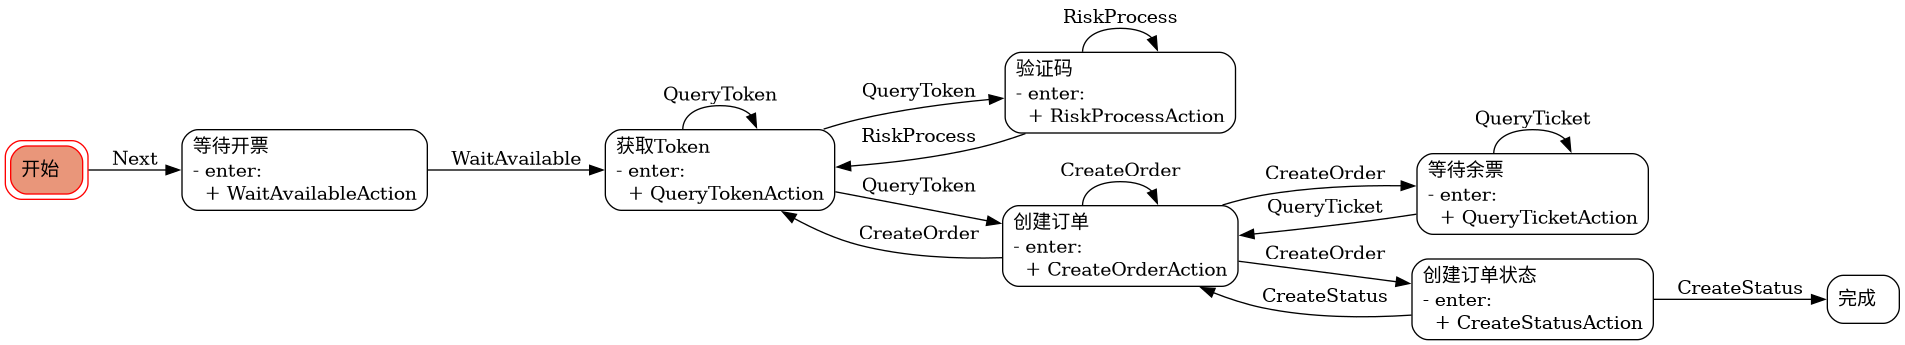
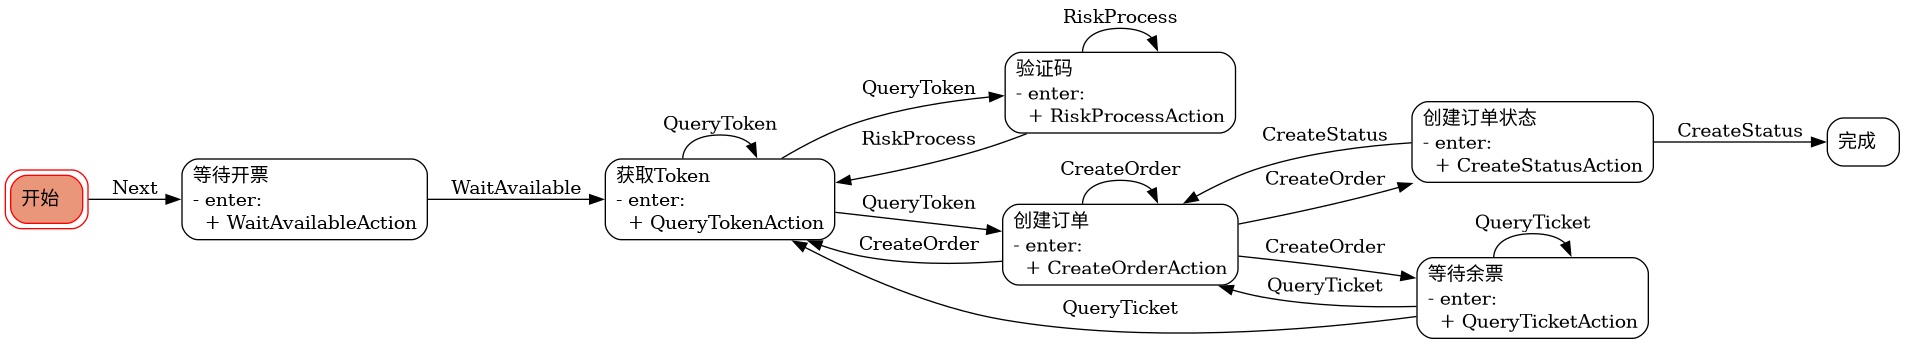
feat:每7.5分钟自动刷新Token&等待余票->获取Token

diff --git a/util/Task/__init__.py b/util/Task/__init__.py
@@ -108,6 +108,12 @@ class Task:
         self.machine.add_transition(
             trigger="QueryTicket",
             source="等待余票",
+            dest="获取Token",
+            conditions=lambda: self.data.TimestampCheck(timestamp=self.refreshTime, duration=self.refreshInterval),
+        )
+        self.machine.add_transition(
+            trigger="QueryTicket",
+            source="等待余票",
             dest="创建订单",
             conditions=lambda: self.queryTicketCode is True,
         )
@@ -129,7 +135,7 @@ class Task:
             trigger="CreateOrder",
             source="创建订单",
             dest="获取Token",
-            conditions=lambda: self.createOrderCode in range(100050, 100060),
+            conditions=lambda: self.createOrderCode in range(100050, 100060) or self.data.TimestampCheck(timestamp=self.refreshTime, duration=self.refreshInterval),
         )
         self.machine.add_transition(
             trigger="CreateOrder",
@@ -160,8 +166,14 @@ class Task:
 
         # 正常Sleep
         self.normalSleep = 0.35
+        # 减速Sleep
+        self.slowSleep = 1
         # ERR3 Sleep
         self.errSleep = 4.96
+        # 刷新Token间隔
+        self.refreshInterval = 7.5
+        # 上次刷新Token时间
+        self.refreshTime = 0
         # 是否已缓存getV2
         self.queryCache = False
 
@@ -212,6 +224,10 @@ class Task:
                     countdown -= 5
 
                 elif 60 > countdown > 1:
+                    if countdown == 10:
+                        logger.info("【等待开票】即将开票! 正在提前获取Token...")
+                        self.QueryTokenAction()
+
                     logger.info(f"【等待开票】即将开票! 需要等待 {countdown-1} 秒")
                     sleep(1)
                     countdown -= 1
@@ -231,12 +247,13 @@ class Task:
         """
         获取Token
         """
-        logger.info("【获取Token】正在尝试获取Token...")
+        logger.info("【获取Token】正在刷新Token...")
         self.queryTokenCode, msg = self.api.QueryToken()
         match self.queryTokenCode:
             # 成功
             case 0:
                 logger.success("【获取Token】Token获取成功!")
+                self.refreshTime = int(time())
 
             # 验证
             case -401:
@@ -331,6 +348,12 @@ class Task:
                     logger.warning("【等待余票】当前无票, 系统正在循环蹲票中! 请稍后")
                     # 刷新
                     sleep(self.normalSleep)
+
+            # 太快了
+            case 100001:
+                logger.error("【等待余票】请求过快, 将减慢请求速度!")
+                # 减速
+                sleep(self.slowSleep)
 
             # 不知道
             case _:

diff --git a/README.md b/README.md
@@ -39,7 +39,6 @@ python cli.py
 
 ## 开发计划
 
-- [ ] *Token提前刷新+自动刷新*
 - [ ] 修改打包模式为目录模式, 而不是单文件模式
 - [ ] 显示版本号
 - [ ] 短信验证码错误修复
